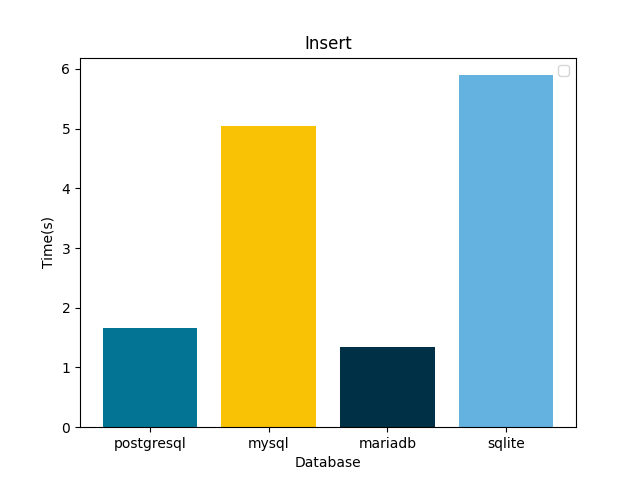
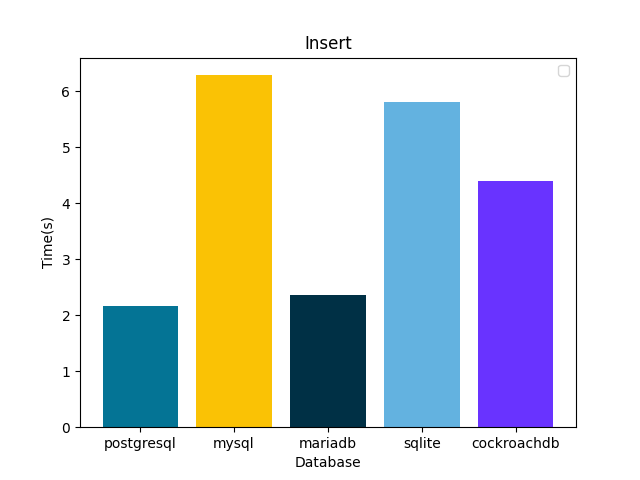
added cockroachdb

diff --git a/benchmark/settings.py b/benchmark/settings.py
@@ -89,6 +89,17 @@ if DB_ENGINE == 'postgresql':
             'PORT': '5432',  # Set to empty string for default. Not used with sqlite3.
         },
     }
+elif DB_ENGINE == 'cockroachdb':
+    DATABASES = {
+        'default': {
+            'ENGINE': 'django_cockroachdb',
+            'NAME': os.getenv('COCKROACH_DATABASE'),  # Or path to database file if using sqlite3.
+            'USER': 'root',  # Not used with sqlite3.
+            'HOST': 'db',  # Not used with sqlite3.
+            'PASSWORD': '',  # Set to empty string for localhost. Not used with sqlite3.
+            'PORT': '26257',  # Set to empty string for default. Not used with sqlite3.
+        },
+    }
 elif DB_ENGINE == 'mysql':
     DATABASES = {
         'default': {
@@ -153,4 +164,4 @@ STATIC_URL = '/static/'
 DEFAULT_AUTO_FIELD = 'django.db.models.BigAutoField'
 
 ROWS_LIST = (1000,)
-DB_ENGINES = ['postgresql', 'mysql', 'mariadb', 'sqlite']
+DB_ENGINES = ['postgresql', 'mysql', 'mariadb', 'sqlite', 'cockroachdb']

diff --git a/tables/check/base.py b/tables/check/base.py
@@ -40,7 +40,7 @@ class CheckBase:
         self.save_file(data)
 
     def create_graph(self):
-        my_colors = ('#047495', '#fac205', '#003045', '#63b2e0')
+        my_colors = ('#047495', '#fac205', '#003045', '#63b2e0','#6933ff')
         fig, ax = plt.subplots()
         ax.set_ylabel('Time(s)')
         ax.set_xlabel('Database')
